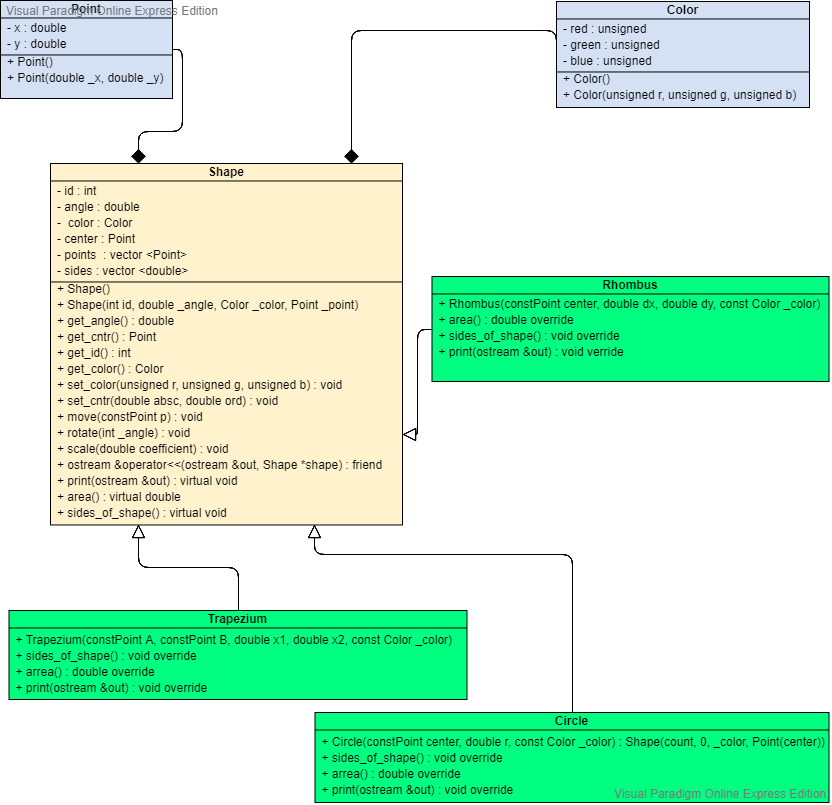
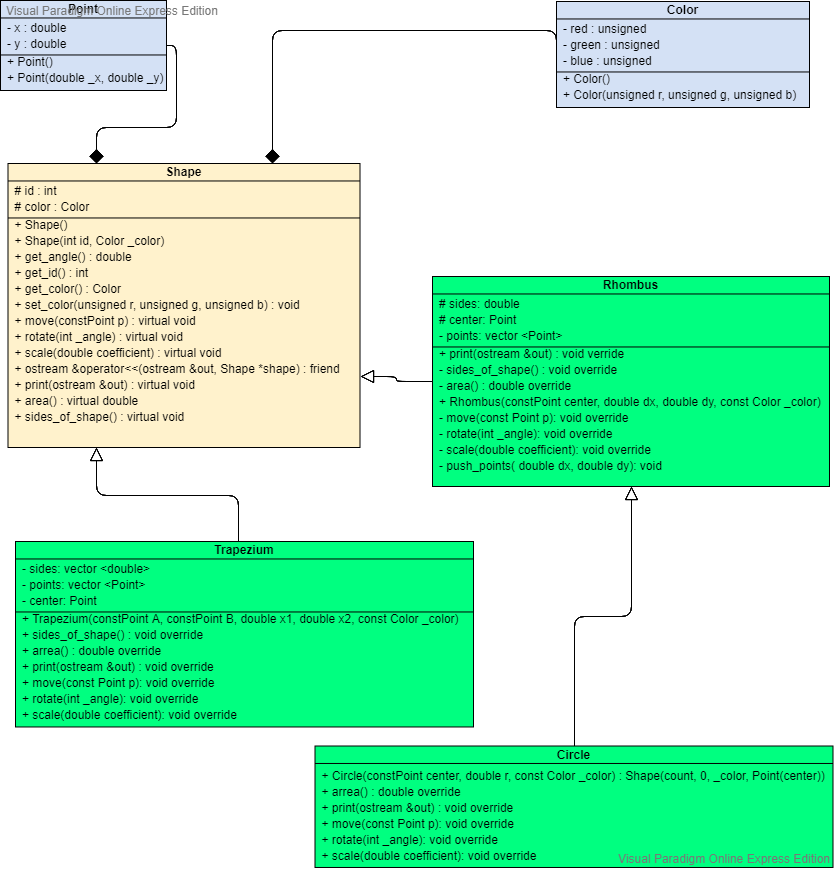
[p-AA_7383] Prokopenko Nadezhda

diff --git a/7383/Prokopenko_Nadezhda/lab2/lr2.cpp b/7383/Prokopenko_Nadezhda/lab2/lr2.cpp
@@ -3,7 +3,7 @@
 #include <vector>
 #include <iomanip>
 using namespace std;
-static int count = 0;
+static int count = 0, angle =  0;
 
 struct Point{
     double x;
@@ -23,23 +23,13 @@ struct Color{
 class Shape{
 protected:
     int id;
-    double angle;
     Color color;
-    Point center;
-    vector <Point> points;
-    vector <double> sides;
 public:
-    Shape(): id(count), angle(0), color(), center(){
+    Shape(): id(count), color(){
         count++;
     }
-    Shape(int id, double _angle, Color _color, Point _point): id(count), angle(_angle), color(_color), center(_point){
+    Shape(int id, Color _color): id(count), color(_color){
         count++;
-    }
-    double get_angle(){
-        return angle;
-    }
-    Point get_cntr(){
-        return center;
     }
     int get_id(){
         return id;
@@ -52,57 +42,21 @@ public:
         color.green = g;
         color.blue = b;
     }
-    void set_cntr(double absc, double ord){
-        center.x = absc;
-        center.y = ord;
-    }
     virtual ~Shape(){
-        points.clear();
-        sides.clear();
         id--;
-    }
-    void move(const Point p){
-        double dx = p.x - center.x;
-        double dy = p.y - center.y;
-        center.x += dx;
-        center.y += dy;
-        for(auto &pnt : points){
-            pnt.x += dx;
-            pnt.y += dy;
-        }
-    }
-    void rotate(int _angle){
-        angle += _angle;
-        _angle %= 360;
-        double angle = _angle * M_PI / 180.0;
-        for(size_t i = 0; i < points.size(); i++){
-            double x = center.x + (points[i].x - center.x) * cos(angle) - (points[i].y - center.y) * sin(angle);
-            double y = center.y + (points[i].x - center.x) * sin(angle) + (points[i].y - center.y) * cos(angle);
-            points[i].x = x;
-            points[i].y = y;
-        }
-    }
-    void scale(double coefficient){
-        double x;
-        double y;
-        for(size_t i = 0; i < points.size(); i++){
-            x = center.x + (points[i].x - center.x) * coefficient;
-            y = center.y + (points[i].y - center.y) * coefficient;
-            points[i].x = x;
-            points[i].y = y;
-        }
     }
     friend ostream &operator<<(ostream &out, Shape *shape);
     virtual void print(ostream &out) = 0;
     virtual double area() = 0;
     virtual void sides_of_shape() = 0;
+    virtual void rotate(int _angle) = 0;
+    virtual void scale(double coefficient) = 0;
+    virtual void move(const Point p) = 0;
 };
 
 ostream &operator<<(ostream &out, Shape *shape){
     out << setw(45) << right  << "!Информация о фигуре!" << endl;
-    out << "Центр фигуры: " << "(" << shape->get_cntr().x << ";" << shape->get_cntr().y << ")" << endl;
-    out << "Цвет фигуры:: " << "(" << shape->get_color().red << "," << shape->get_color().green << "," << shape->get_color().blue << ")" << endl;
-    out << "Угол: " << shape->get_angle() << endl;
+    out << "Цвет фигуры: " << "(" << shape->get_color().red << "," << shape->get_color().green << "," << shape->get_color().blue << ")" << endl;
     out << "Id фигуры: " << shape->get_id() << endl;
     out << "Площадь: " << shape->area() << endl;
     shape->print(out);
@@ -110,55 +64,16 @@ ostream &operator<<(ostream &out, Shape *shape){
     return out;
 }
 
-class Rhombus : public Shape{
-public:
-    Rhombus(const Point center, double dx, double dy, const Color _color) : Shape(count, 0, _color, Point(center)){
-        id++;
-        points.clear();
-        Point A = Point(center.x + dx, center.y);
-        Point B = Point(center.x, center.y + dy);
-        Point C = Point(center.x - dx, center.y);
-        Point D = Point(center.x, center.y - dy);
-        points.push_back(A);
-        points.push_back(B);
-        points.push_back(C);
-        points.push_back(D);
-    }
-    double area()override{
-        double dx = points[0].x - points[1].x;
-        double dy = points[1].y - points[0].y;
-        double d1 = 2 * dx;
-        double d2 = 2 * dy;
-        double area = d1 * d2 / 2;
-        return abs(area);
-    }
-    void sides_of_shape() override{
-        sides.clear();
-        double a = sqrt(pow((points[0].x - points[1].x), 2.0) + pow((points[0].y - points[1].y), 2.0));
-        double b = a, c = a, d = a;
-        sides.push_back(a);
-        sides.push_back(b);
-        sides.push_back(c);
-        sides.push_back(d);
-    }
-    void print(ostream &out) override{
-        sides_of_shape();
-        out << "Все стороны фигуры равны: " ;
-        out << sides[0] << endl;
-        out << "Координаты фигуры: " ;
-        for(int i = 0; i < points.size(); i++){
-            out << i << ": (" << points[i].x << "; " << points[i].y << "); ";
-        }
-        out << endl;
-    }
-    ~Rhombus(){}
-};
-
 class Trapezium : public Shape{
+private:
+    vector <double> sides;
+    vector <Point> points;
+    Point center;
 public:
-    Trapezium(const Point A, const Point B, double x1, double x2, const Color _color) : Shape(count, 0, _color, Point((A.x + B.x + x1 + x2) / 4, (2 * (A.y + B.y)) / 4)){
+    Trapezium(const Point A, const Point B, double x1, double x2, const Color _color) : Shape(count,  _color){
         id++;
         points.clear();
+        center =  Point((A.x + B.x + x1 + x2) / 4, (2 * (A.y + B.y)) / 4);
         Point D = Point(x1, A.y);
         Point C = Point(x2, B.y);
         points.push_back(A);
@@ -194,77 +109,161 @@ public:
             out << i << ": (" << points[i].x << "; " << points[i].y << "); ";
         }
         out << endl;
+        out << "Центр фигуры: " << "(" << center.x << ";" << center.y << ")" << endl;
+        out << "Угол: " << angle << endl;
+    }
+    void move(const Point p) override{
+        double dx = p.x - center.x;
+        double dy = p.y - center.y;
+        center.x += dx;
+        center.y += dy;
+        for(size_t i = 0; i < points.size(); i++){
+            points[i].x += dx;
+            points[i].y += dy;
+        }
+    }
+    void rotate(int _angle) override{
+        angle= _angle % 360;
+        double angle = _angle * M_PI / 180.0;
+        for(size_t i = 0; i < points.size(); i++){
+            double x = center.x + (points[i].x - center.x) * cos(angle) - (points[i].y - center.y) * sin(angle);
+            double y = center.y + (points[i].x - center.x) * sin(angle) + (points[i].y - center.y) * cos(angle);
+            points[i].x = x;
+            points[i].y = y;
+        }
+    }
+    void scale(double coefficient) override{
+        double x;
+        double y;
+        for(size_t i = 0; i < points.size(); i++){
+            x = center.x + (points[i].x - center.x) * coefficient;
+            y = center.y + (points[i].y - center.y) * coefficient;
+            points[i].x = x;
+            points[i].y = y;
+        }
     }
     ~Trapezium(){
         sides.clear();
+        points.clear();
     }
 };
 
-class Circle : public Shape{
+class Rhombus : public Shape{
+protected:
+  double sides;
+  Point center;
+private:
+  vector <Point> points;
+  void move(const Point p) override{
+      double dx = p.x - center.x;
+      double dy = p.y - center.y;
+      center.x += dx;
+      center.y += dy;
+      for(size_t i = 0; i < points.size(); i++){
+          points[i].x += dx;
+          points[i].y += dy;
+      }
+  }
+  void rotate(int _angle) override{
+      angle= _angle % 360;
+      double angle = _angle * M_PI / 180.0;
+      for(size_t i = 0; i < points.size(); i++){
+          double x = center.x + (points[i].x - center.x) * cos(angle) - (points[i].y - center.y) * sin(angle);
+          double y = center.y + (points[i].x - center.x) * sin(angle) + (points[i].y - center.y) * cos(angle);
+          points[i].x = x;
+          points[i].y = y;
+      }
+  }
+  void scale(double coefficient) override{
+      double x;
+      double y;
+      for(size_t i = 0; i < points.size(); i++){
+          x = center.x + (points[i].x - center.x) * coefficient;
+          y = center.y + (points[i].y - center.y) * coefficient;
+          points[i].x = x;
+          points[i].y = y;
+      }
+  }
+  void push_points( double dx, double dy) {
+    points.clear();
+    Point A = Point(center.x + dx, center.y);
+    Point B = Point(center.x, center.y + dy);
+    Point C = Point(center.x - dx, center.y);
+    Point D = Point(center.x, center.y - dy);
+    points.push_back(A);
+    points.push_back(B);
+    points.push_back(C);
+    points.push_back(D);
+  }
+  double area()override{
+      sides_of_shape();
+      double dx = points[0].x - points[1].x;
+      double dy = points[1].y - points[0].y;
+      double d1 = 2 * dx;
+      double d2 = 2 * dy;
+      double area = d1 * d2 / 2;
+      return abs(area);
+  }
+  void sides_of_shape() override{
+      sides = sqrt(pow((points[0].x - points[1].x), 2.0) + pow((points[0].y - points[1].y), 2.0));
+  }
 public:
-    Circle(const Point center, double r, const Color _color) : Shape(count, 0, _color, Point(center)){
+    Rhombus(const Point _center, double dx, double dy, const Color _color) : Shape(count, _color){
         id++;
-        points.clear();
-        Point A = Point(center.x, center.y + r);
-        Point B = Point(center.x + r, center.y);
-        Point C = Point(center.x, center.y - r);
-        Point D = Point(center.x - r, center.y);
-        points.push_back(A);
-        points.push_back(B);
-        points.push_back(C);
-        points.push_back(D);
+        center = _center;
+        push_points( dx, dy);
     }
-    void sides_of_shape() override{
-      sides.clear();
-      double r = (points[0].y - points[1].y);
-      sides.push_back(r);
+    void print(ostream &out) override{
+        out << "Все стороны фигуры равны: " ;
+        out << sides << endl;
+        out << "Координаты фигуры: " ;
+        for(int i = 0; i < points.size(); i++){
+            out << i << ": (" << points[i].x << "; " << points[i].y << "); ";
+        }
+        out << endl;
+        out << "Центр фигуры: " << "(" << center.x << ";" << center.y << ")" << endl;
+        out << "Угол: " << angle << endl;
+    }
+    ~Rhombus(){
+        points.clear();
+    }
+};
+
+class Circle : public Rhombus{
+public:
+    Circle(const Point center, double r, const Color _color) : Rhombus(Point(center), r, r, _color){
+    sides = r;
+    }
+    void move(const Point p) override{
+        center.x = p.x;
+        center.y = p.y;
+    }
+    void rotate(int _angle) override{};
+    void scale(double coefficient) override{
+        sides *=coefficient;
     }
     double area()override{
-        sides_of_shape();
-        double area = M_PI * pow(sides[0], 2.0);
+        double area = M_PI * pow(sides, 2.0);
         return abs(area);
     }
     void print(ostream &out) override{
-        sides_of_shape();
-        out << "Радиус:  " << sides[0] << endl;
-        out << "Координаты фигуры: " ;
-        for(int i = 0; i < points.size(); i++){
-            out << i << ": (" << points[i].x << "; " << points[i].y << "), ";
-        }
-        out << endl;
-
+        out << "Радиус:  " << sides << endl;
+        out << "Центр фигуры: " << "(" << center.x << ";" << center.y << ")" << endl;
     }
     ~Circle(){}
 };
 
 int main(){
     setlocale(LC_ALL, "Russian");
-    cout << "Ромб" << endl;
-    Shape *test1 = new Rhombus({1, 1}, 4, 6, {0, 0, 1});
-    cout << test1;
-    cout << "Маштабирование ромба" << endl;
-    test1->scale(4);
-    cout << test1;
-    cout << "Трапеция" << endl;
-    Shape *test2 = new Trapezium({1, 1}, {2, 5}, 5, 3, {0, 1, 0});
-    cout << test2;
-    cout << "Маштабирование трапеции" << endl;
-    test2->scale(6);
-    cout << test2;
-    cout << "Перемещение трапеции" << endl;
-    test2->move({10, 12});
-    cout << test2;
-    cout << "Поворот трапеции" << endl;
-    test2->rotate(60);
-    cout << test2;
-    cout << "Круг" << endl;
-    Shape *test3 = new Circle({5, 7}, 3, {1, 0, 0});
-    cout << test3;
-    cout << "Перемещение круга" << endl;
-    test3->move({10, 12});
-    cout << test3;
-    cout << "Маштабирование круга" << endl;
-    test3->scale(8);
-    cout << test3;
+    Shape* test[3]={ new Rhombus({1, 1}, 4, 6, {0, 0, 1}), new Trapezium({1, 1}, {2, 5}, 5, 3, {0, 1, 0}), new Circle({5, 7}, 3, {1, 0, 0})};
+    for(int i=0; i<3; i++){
+      cout<<test[i];
+      test[i]->rotate(60);
+      cout << test[i];
+      test[i]->move({10, 12});
+      cout << test[i];
+      test[i]->scale(3);
+      cout << test[i]<<"____________________________________"<<endl;
+    }
     return 0;
 }
